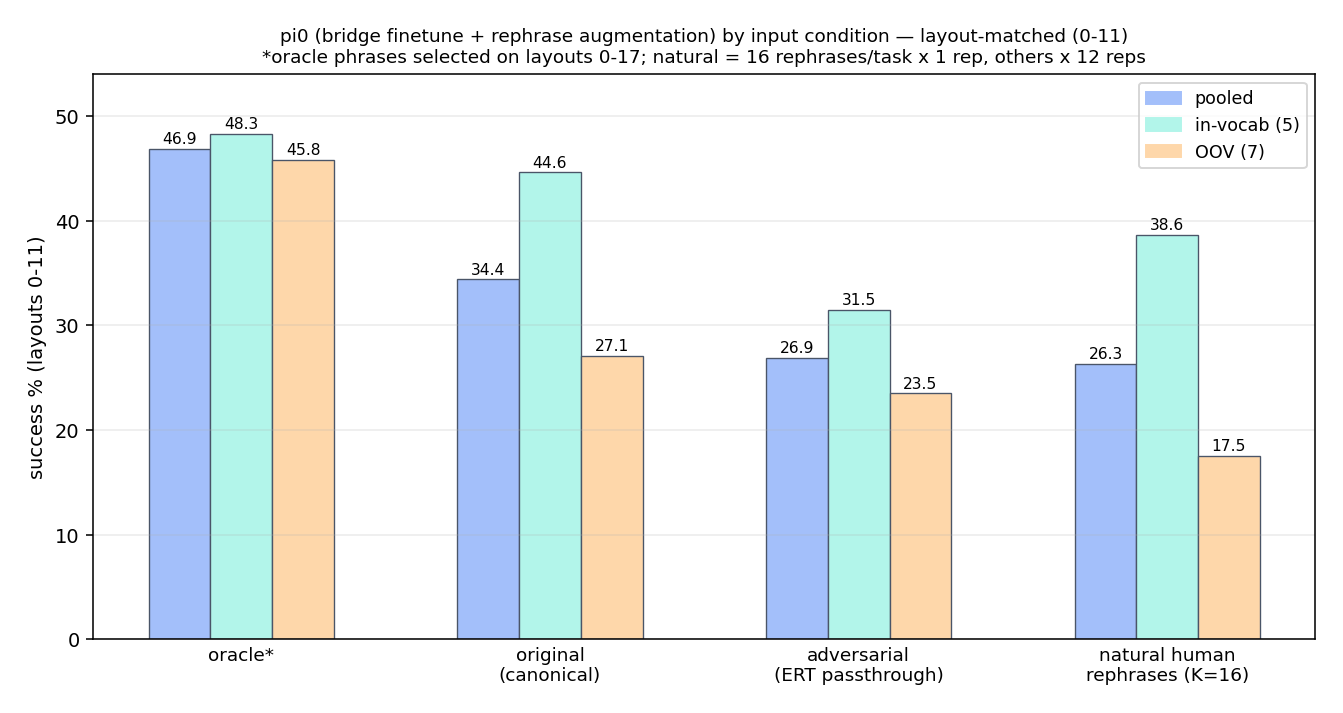
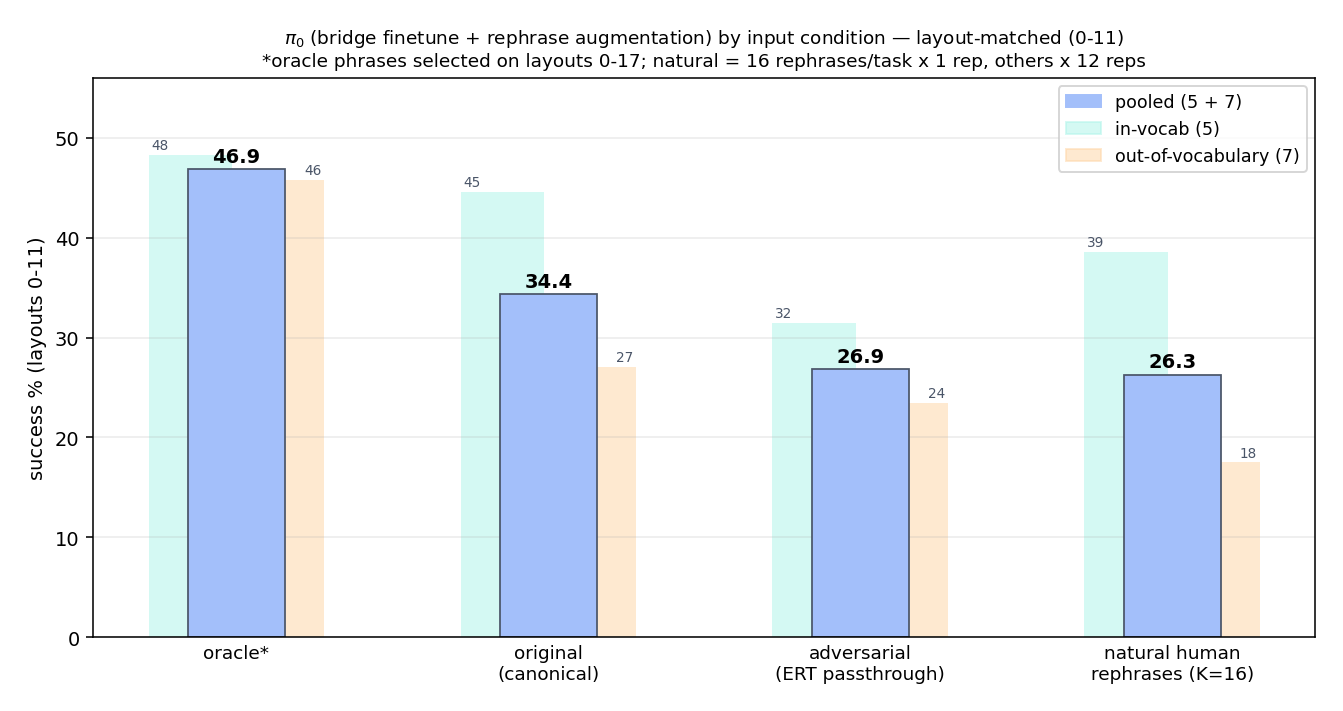
chart: pi0 conditions v2 — pooled-forward layout, greek pi, spelled-out strata

diff --git a/scripts/make_pi0_conditions.py b/scripts/make_pi0_conditions.py
@@ -1,43 +1,50 @@
 #!/usr/bin/env python3
 """pi0 (rephrase-augmented INTACT) input-condition chart: oracle / original /
-adversarial / natural-rephrasing, each as a pooled | in-vocab | OOV triplet.
-ALL bars layout-matched to layouts 0-11 (natural is measured there); computed
-from raw parquets. Pastel palette from the condition ladders."""
+adversarial / natural-rephrasing. POOLED is the headline bar (solid, front);
+the in-vocab / out-of-vocabulary strata sit BEHIND it, thinner and
+semi-transparent, peeking out either side. All bars layout-matched to 0-11."""
 import matplotlib
 
 matplotlib.use("Agg")
 import matplotlib.pyplot as plt
 
-# (pooled, IV, OOV) — layouts 0-11, from raw parquets (see compute in git log)
+# (pooled, IV, OOV) — layouts 0-11, from raw parquets
 DATA = [
     ("oracle*", (46.88, 48.3, 45.8)),
     ("original\n(canonical)", (34.38, 44.6, 27.1)),
     ("adversarial\n(ERT passthrough)", (26.85, 31.5, 23.5)),
     ("natural human\nrephrases (K=16)", (26.30, 38.6, 17.5)),
 ]
-STRATA = [("pooled", "#a3bffa"), ("in-vocab (5)", "#b2f5ea"), ("OOV (7)", "#fed7aa")]
-W = 0.27
+C_POOL, C_IV, C_OOV = "#a3bffa", "#b2f5ea", "#fed7aa"
 
 fig, ax = plt.subplots(figsize=(9.5, 5.0))
 x = 0.0
 ticks, labels = [], []
-for name, vals in DATA:
-    for j, ((sname, col), v) in enumerate(zip(STRATA, vals)):
-        ax.bar(x + (j - 1) * W, v, W, color=col, edgecolor="#4a5568", lw=0.7)
-        ax.text(x + (j - 1) * W, v + 0.5, f"{v:.1f}", ha="center", fontsize=8)
+for name, (pool, iv, oov) in DATA:
+    # strata behind: thinner, offset, semi-transparent
+    ax.bar(x - 0.20, iv, 0.36, color=C_IV, alpha=0.55, zorder=1, edgecolor="none")
+    ax.bar(x + 0.20, oov, 0.36, color=C_OOV, alpha=0.55, zorder=1, edgecolor="none")
+    ax.text(x - 0.33, iv + 0.5, f"{iv:.0f}", ha="center", fontsize=7, color="#4a5568", zorder=3)
+    ax.text(x + 0.33, oov + 0.5, f"{oov:.0f}", ha="center", fontsize=7, color="#4a5568", zorder=3)
+    # pooled in front: wide, solid
+    ax.bar(x, pool, 0.42, color=C_POOL, zorder=2, edgecolor="#4a5568", lw=0.9)
+    ax.text(x, pool + 0.7, f"{pool:.1f}", ha="center", fontsize=10, fontweight="bold", zorder=3)
     ticks.append(x)
     labels.append(name)
     x += 1.35
-handles = [plt.Rectangle((0, 0), 1, 1, color=c) for _, c in STRATA]
-ax.legend(handles, [s for s, _ in STRATA], fontsize=9, loc="upper right")
+handles = [plt.Rectangle((0, 0), 1, 1, color=C_POOL),
+           plt.Rectangle((0, 0), 1, 1, color=C_IV, alpha=0.55),
+           plt.Rectangle((0, 0), 1, 1, color=C_OOV, alpha=0.55)]
+ax.legend(handles, ["pooled (5 + 7)", "in-vocab (5)", "out-of-vocabulary (7)"],
+          fontsize=9, loc="upper right")
 ax.set_xticks(ticks)
 ax.set_xticklabels(labels, fontsize=9.5)
 ax.tick_params(axis="x", length=0)
 ax.set_ylabel("success % (layouts 0-11)")
-ax.set_ylim(0, 54)
-ax.grid(axis="y", alpha=0.25)
-ax.set_title("pi0 (bridge finetune + rephrase augmentation) by input condition — layout-matched (0-11)\n"
-             "*oracle phrases selected on layouts 0-17; natural = 16 rephrases/task x 1 rep, others x 12 reps",
+ax.set_ylim(0, 56)
+ax.grid(axis="y", alpha=0.25, zorder=0)
+ax.set_title(r"$\pi_0$ (bridge finetune + rephrase augmentation) by input condition — layout-matched (0-11)"
+             "\n*oracle phrases selected on layouts 0-17; natural = 16 rephrases/task x 1 rep, others x 12 reps",
              fontsize=9.5)
 fig.tight_layout()
 fig.savefig("results/charts/pi0_conditions.png", dpi=140, bbox_inches="tight", pad_inches=0.2)
